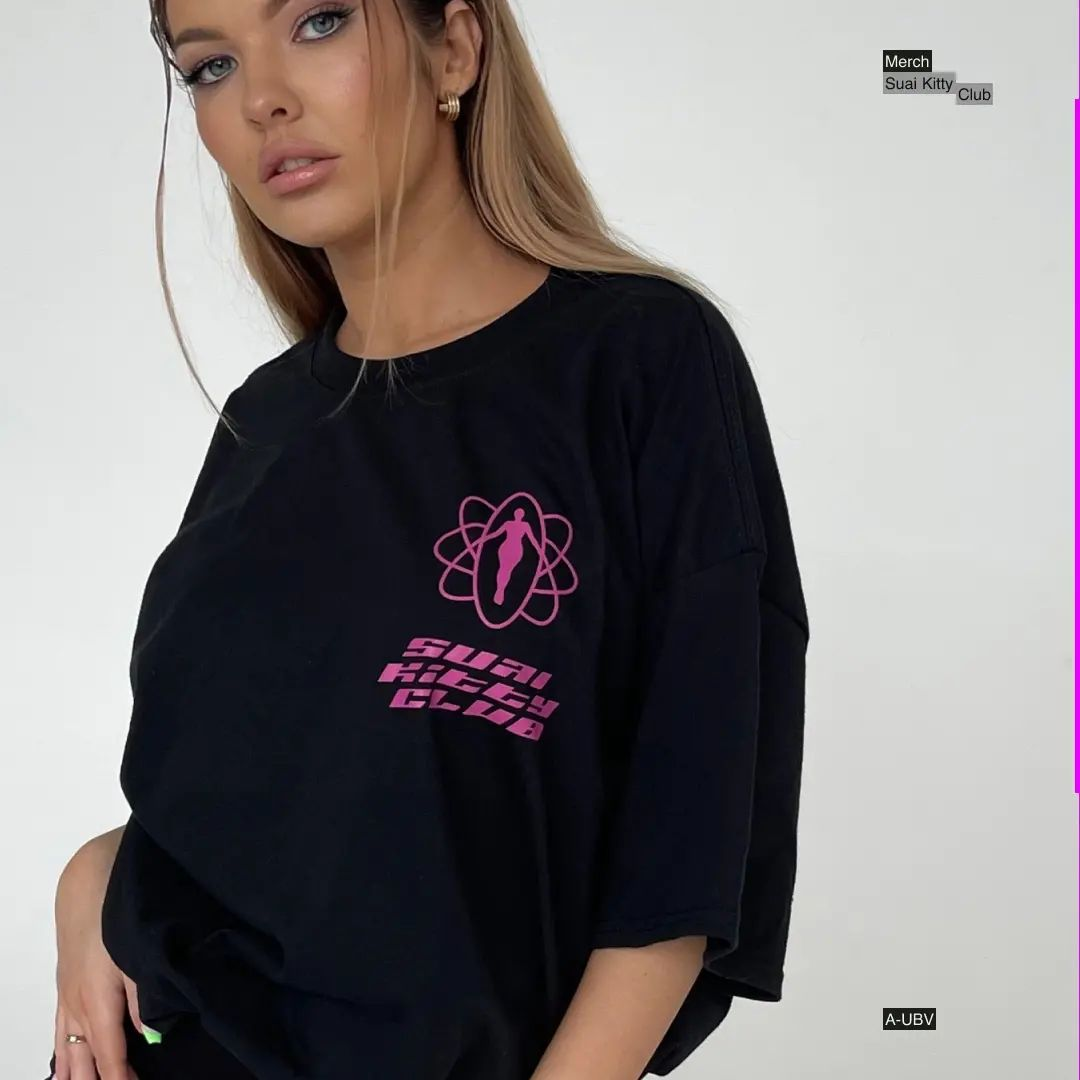
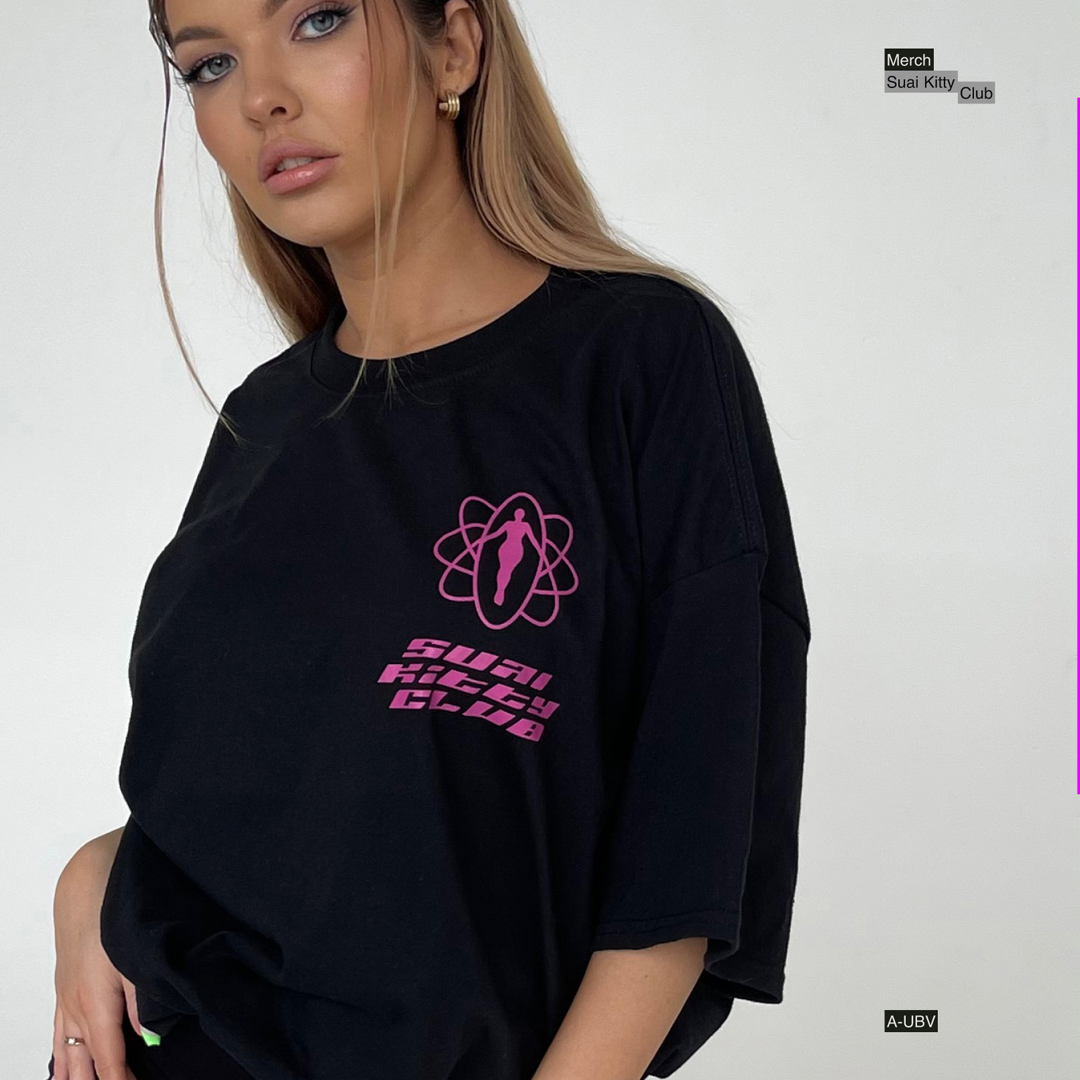
Archive: add G-MCH, Disruptive, UNDRCVR, Startup Drive projects
- 13 new cards across 4 standalone-sibling groups, wired up per the
  established [0000]-badge convention
- expand the Suai Kitty Club and Bug reference-doc entries from the
  "-//-" shorthand back out to their full duplicated description text
- replace Tantra, Suai Kitty Club 01, and all 4 Text Longread images
  with re-compressed exports
- fix archive-data.txt's Longread/Textures filename references
  (archive-longread- -> archive-textlongread-, .web -> .webp typo) to
  match what's actually on disk

diff --git a/archive/index.html b/archive/index.html
@@ -669,6 +669,97 @@
               <span class="archive-title">Suai Kitty Club<sup class="archive-num">[0005]</sup></span>
             </a>
 
+            <a class="archive-card" href="#">
+              <div class="archive-card__cover">
+                <img width="1080" height="1080" loading="lazy" data-preview data-description="Graphics for the merch drop of the G-MCH (Guyver Mechanics) project, exploring cyber-futurism through the plasticity of graphic form and typography." src="../assets/archive/archive-gmchmerch-01.webp" alt="G-MCH 01 archive project" />
+              </div>
+              <span class="archive-title">G-MCH<sup class="archive-num">[0001]</sup></span>
+            </a>
+
+            <a class="archive-card" href="#">
+              <div class="archive-card__cover">
+                <img width="1080" height="1080" loading="lazy" data-preview data-description="Graphics for the merch drop of the G-MCH (Guyver Mechanics) project, exploring cyber-futurism through the plasticity of graphic form and typography." src="../assets/archive/archive-gmchmerch-02.webp" alt="G-MCH 02 archive project" />
+              </div>
+              <span class="archive-title">G-MCH<sup class="archive-num">[0002]</sup></span>
+            </a>
+
+            <a class="archive-card" href="#">
+              <div class="archive-card__cover">
+                <img width="1080" height="1080" loading="lazy" data-preview data-description="Graphics for the merch drop of the G-MCH (Guyver Mechanics) project, exploring cyber-futurism through the plasticity of graphic form and typography." src="../assets/archive/archive-gmchmerch-03.webp" alt="G-MCH 03 archive project" />
+              </div>
+              <span class="archive-title">G-MCH<sup class="archive-num">[0003]</sup></span>
+            </a>
+
+            <a class="archive-card" href="#">
+              <div class="archive-card__cover">
+                <img width="1080" height="1080" loading="lazy" data-preview data-description="Graphics for the merch drop of the G-MCH (Guyver Mechanics) project, exploring cyber-futurism through the plasticity of graphic form and typography." src="../assets/archive/archive-gmchmerch-04.webp" alt="G-MCH 04 archive project" />
+              </div>
+              <span class="archive-title">G-MCH<sup class="archive-num">[0004]</sup></span>
+            </a>
+
+            <a class="archive-card" href="#">
+              <div class="archive-card__cover">
+                <img width="1080" height="1080" loading="lazy" data-preview data-description="Graphics for the merch drop of the G-MCH (Guyver Mechanics) project, exploring cyber-futurism through the plasticity of graphic form and typography." src="../assets/archive/archive-gmchpink.webp" alt="G-MCH 05 archive project" />
+              </div>
+              <span class="archive-title">G-MCH<sup class="archive-num">[0005]</sup></span>
+            </a>
+
+            <a class="archive-card" href="#">
+              <div class="archive-card__cover">
+                <img width="1080" height="1080" loading="lazy" data-preview data-description="Merch for the Disruptive.VC project. Disruptive.VC drives AI transformation for corporations, helping them adopt generative artificial intelligence. Since 2013, the firm has combined advisory, corporate accelerators and venture scouting to help established businesses compete through innovation rather than simply outsourcing it to startups." src="../assets/archive/archive-disruptive-01.webp" alt="Disruptive 01 archive project" />
+              </div>
+              <span class="archive-title">Disruptive<sup class="archive-num">[0001]</sup></span>
+            </a>
+
+            <a class="archive-card" href="#">
+              <div class="archive-card__cover">
+                <img width="1080" height="1080" loading="lazy" data-preview data-description="Merch for the Disruptive.VC project. Disruptive.VC drives AI transformation for corporations, helping them adopt generative artificial intelligence. Since 2013, the firm has combined advisory, corporate accelerators and venture scouting to help established businesses compete through innovation rather than simply outsourcing it to startups." src="../assets/archive/archive-disruptive-02.webp" alt="Disruptive 02 archive project" />
+              </div>
+              <span class="archive-title">Disruptive<sup class="archive-num">[0002]</sup></span>
+            </a>
+
+            <a class="archive-card" href="#">
+              <div class="archive-card__cover">
+                <img width="1080" height="1080" loading="lazy" data-preview data-description="Graphic design for UNDRCVR—transparent waterproof shoe covers protecting against rain and bad weather. The print mixes graffiti spray marks with a gothic logotype and cryptic text on secrecy, playing on the brand's &quot;undercover&quot; name." src="../assets/archive/archive-undrcvr-01.webp" alt="UNDRCVR 01 archive project" />
+              </div>
+              <span class="archive-title">UNDRCVR<sup class="archive-num">[0001]</sup></span>
+            </a>
+
+            <a class="archive-card" href="#">
+              <div class="archive-card__cover">
+                <img width="1080" height="1080" loading="lazy" data-preview data-description="Graphic design for UNDRCVR—transparent waterproof shoe covers protecting against rain and bad weather. The print mixes graffiti spray marks with a gothic logotype and cryptic text on secrecy, playing on the brand's &quot;undercover&quot; name." src="../assets/archive/archive-undrcvr-02.webp" alt="UNDRCVR 02 archive project" />
+              </div>
+              <span class="archive-title">UNDRCVR<sup class="archive-num">[0002]</sup></span>
+            </a>
+
+            <a class="archive-card" href="#">
+              <div class="archive-card__cover">
+                <img width="1080" height="1080" loading="lazy" data-preview data-description="Merch and brand identity for a startup accelerator by Gazprom Neft." src="../assets/archive/archive-startupdrive-01.webp" alt="Startup Drive 01 archive project" />
+              </div>
+              <span class="archive-title">Startup Drive<sup class="archive-num">[0001]</sup></span>
+            </a>
+
+            <a class="archive-card" href="#">
+              <div class="archive-card__cover">
+                <img width="1080" height="1080" loading="lazy" data-preview data-description="Merch and brand identity for a startup accelerator by Gazprom Neft." src="../assets/archive/archive-startupdrive-02.webp" alt="Startup Drive 02 archive project" />
+              </div>
+              <span class="archive-title">Startup Drive<sup class="archive-num">[0002]</sup></span>
+            </a>
+
+            <a class="archive-card" href="#">
+              <div class="archive-card__cover">
+                <img width="1080" height="1080" loading="lazy" data-preview data-description="Merch and brand identity for a startup accelerator by Gazprom Neft." src="../assets/archive/archive-startupdrive-03.webp" alt="Startup Drive 03 archive project" />
+              </div>
+              <span class="archive-title">Startup Drive<sup class="archive-num">[0003]</sup></span>
+            </a>
+
+            <a class="archive-card" href="#">
+              <div class="archive-card__cover">
+                <img width="1080" height="1080" loading="lazy" data-preview data-description="Merch and brand identity for a startup accelerator by Gazprom Neft." src="../assets/archive/archive-startupdrive-04.webp" alt="Startup Drive 04 archive project" />
+              </div>
+              <span class="archive-title">Startup Drive<sup class="archive-num">[0004]</sup></span>
+            </a>
+
           </article>
 
           <button class="load-more-btn" type="button">Load more</button>
@@ -1300,15 +1391,20 @@
         }
       }
 
-      // Vertical wheel input (a normal mouse wheel) pans the strip
-      // horizontally, eased; a genuine horizontal trackpad swipe (deltaX
-      // already dominant) is left entirely to the browser's own native
-      // two-finger panning—no JS, no preventDefault.
+      // Wheel input pans the strip, eased. A plain mouse wheel only ever
+      // fires deltaY; a trackpad fires whichever axis matches the actual
+      // two-finger motion—vertical thumb motion mostly deltaY, horizontal
+      // mostly deltaX. Route whichever axis is dominant through the same
+      // eased scroll + magnet system, so a horizontal swipe (the strip's
+      // own natural direction) feels identical to a vertical one instead
+      // of falling back to raw, unsnapped native scrolling.
       previewFilmstrip.addEventListener('wheel', function (e) {
-        if (Math.abs(e.deltaY) <= Math.abs(e.deltaX)) return;
+        if (e.ctrlKey) return; // trackpad pinch-to-zoom—leave that to the browser
+        var delta = Math.abs(e.deltaY) >= Math.abs(e.deltaX) ? e.deltaY : e.deltaX;
+        if (!delta) return;
         e.preventDefault();
         var base = filmstripAnim.raf ? filmstripAnim.target : previewFilmstrip.scrollLeft;
-        filmstripEaseTo(base + e.deltaY);
+        filmstripEaseTo(base + delta);
       }, { passive: false });
 
       // Frames have variable widths (natural size), so "step one frame"
